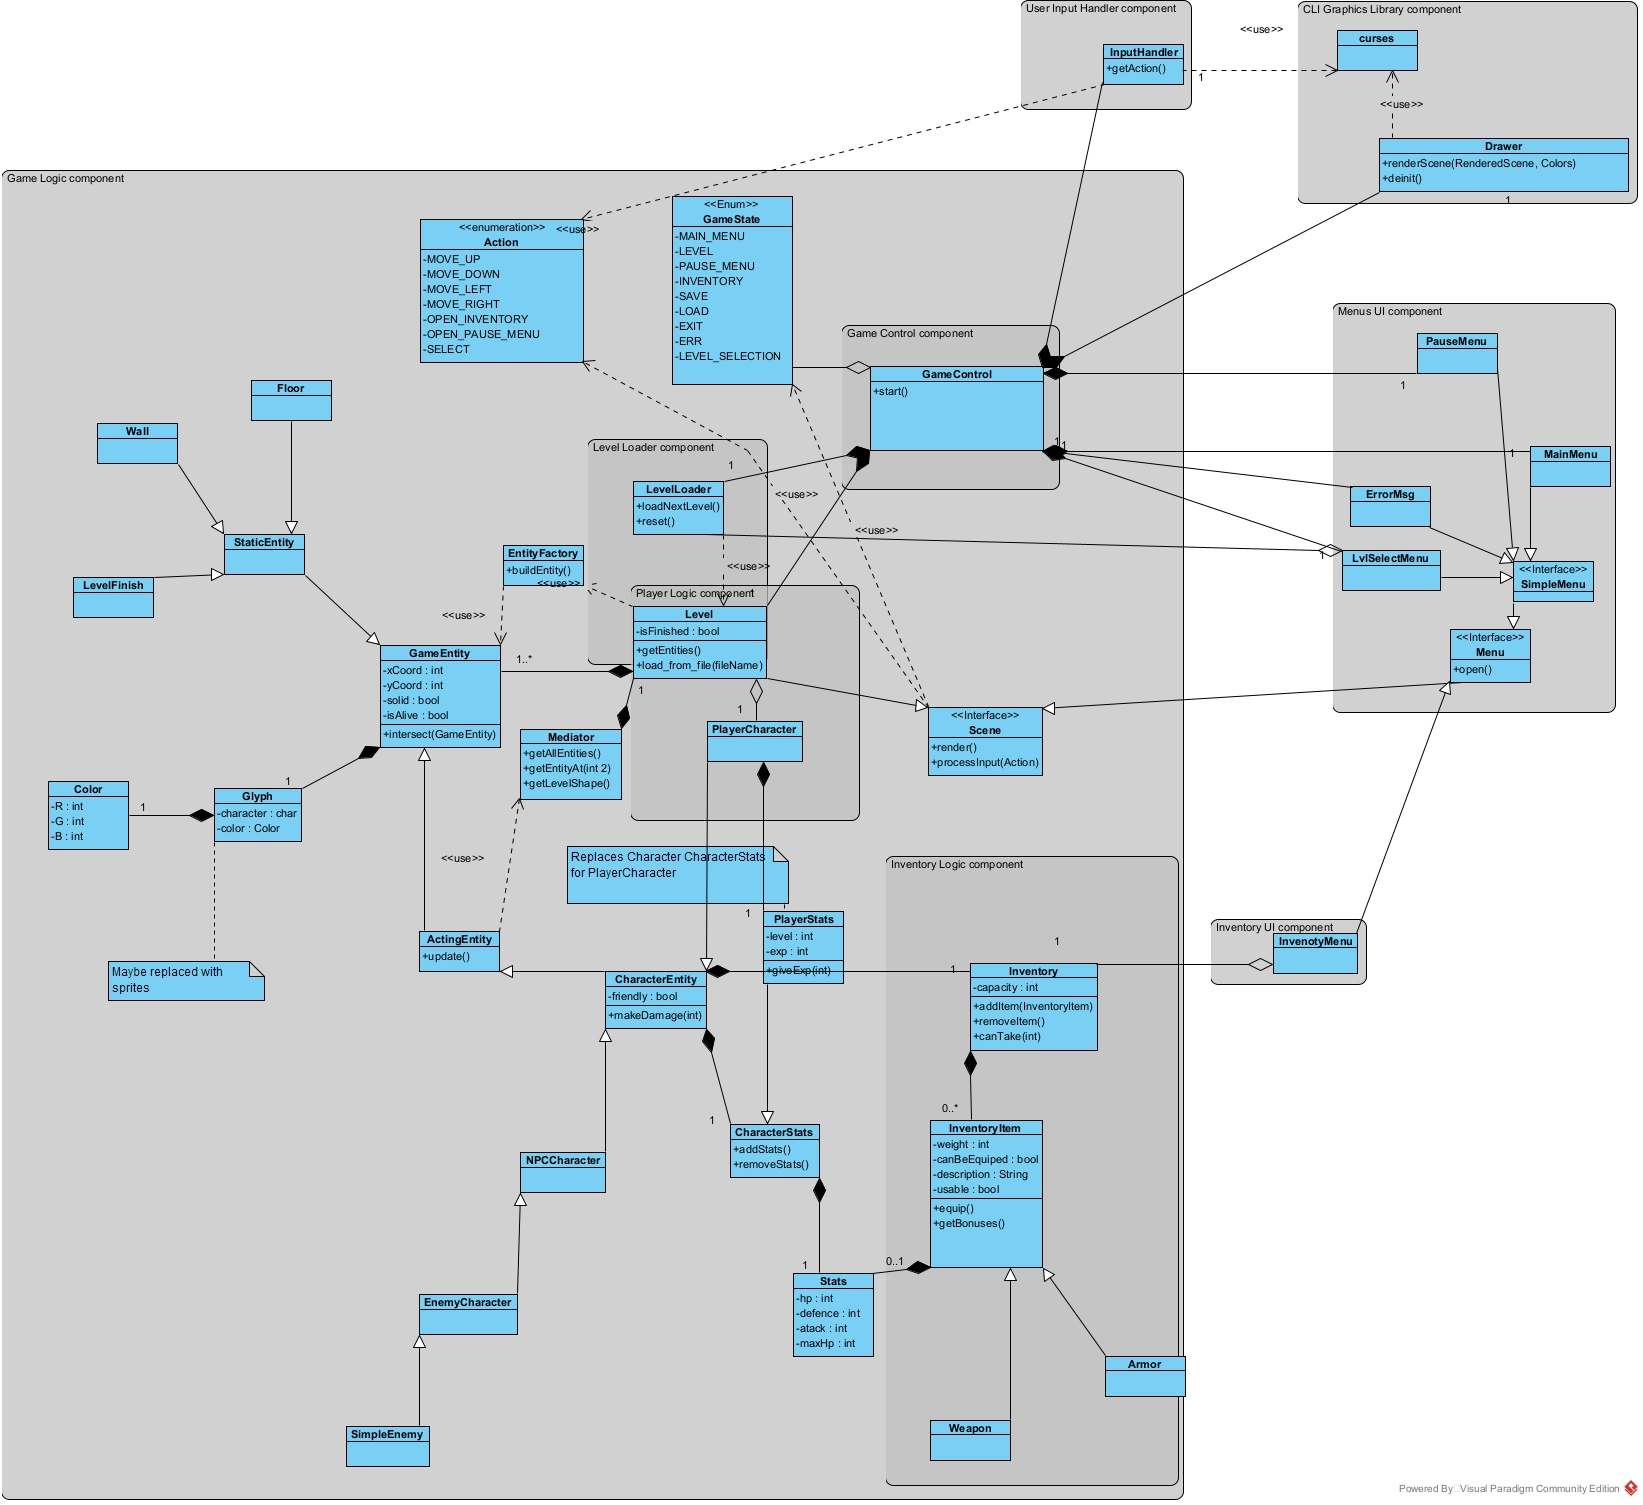
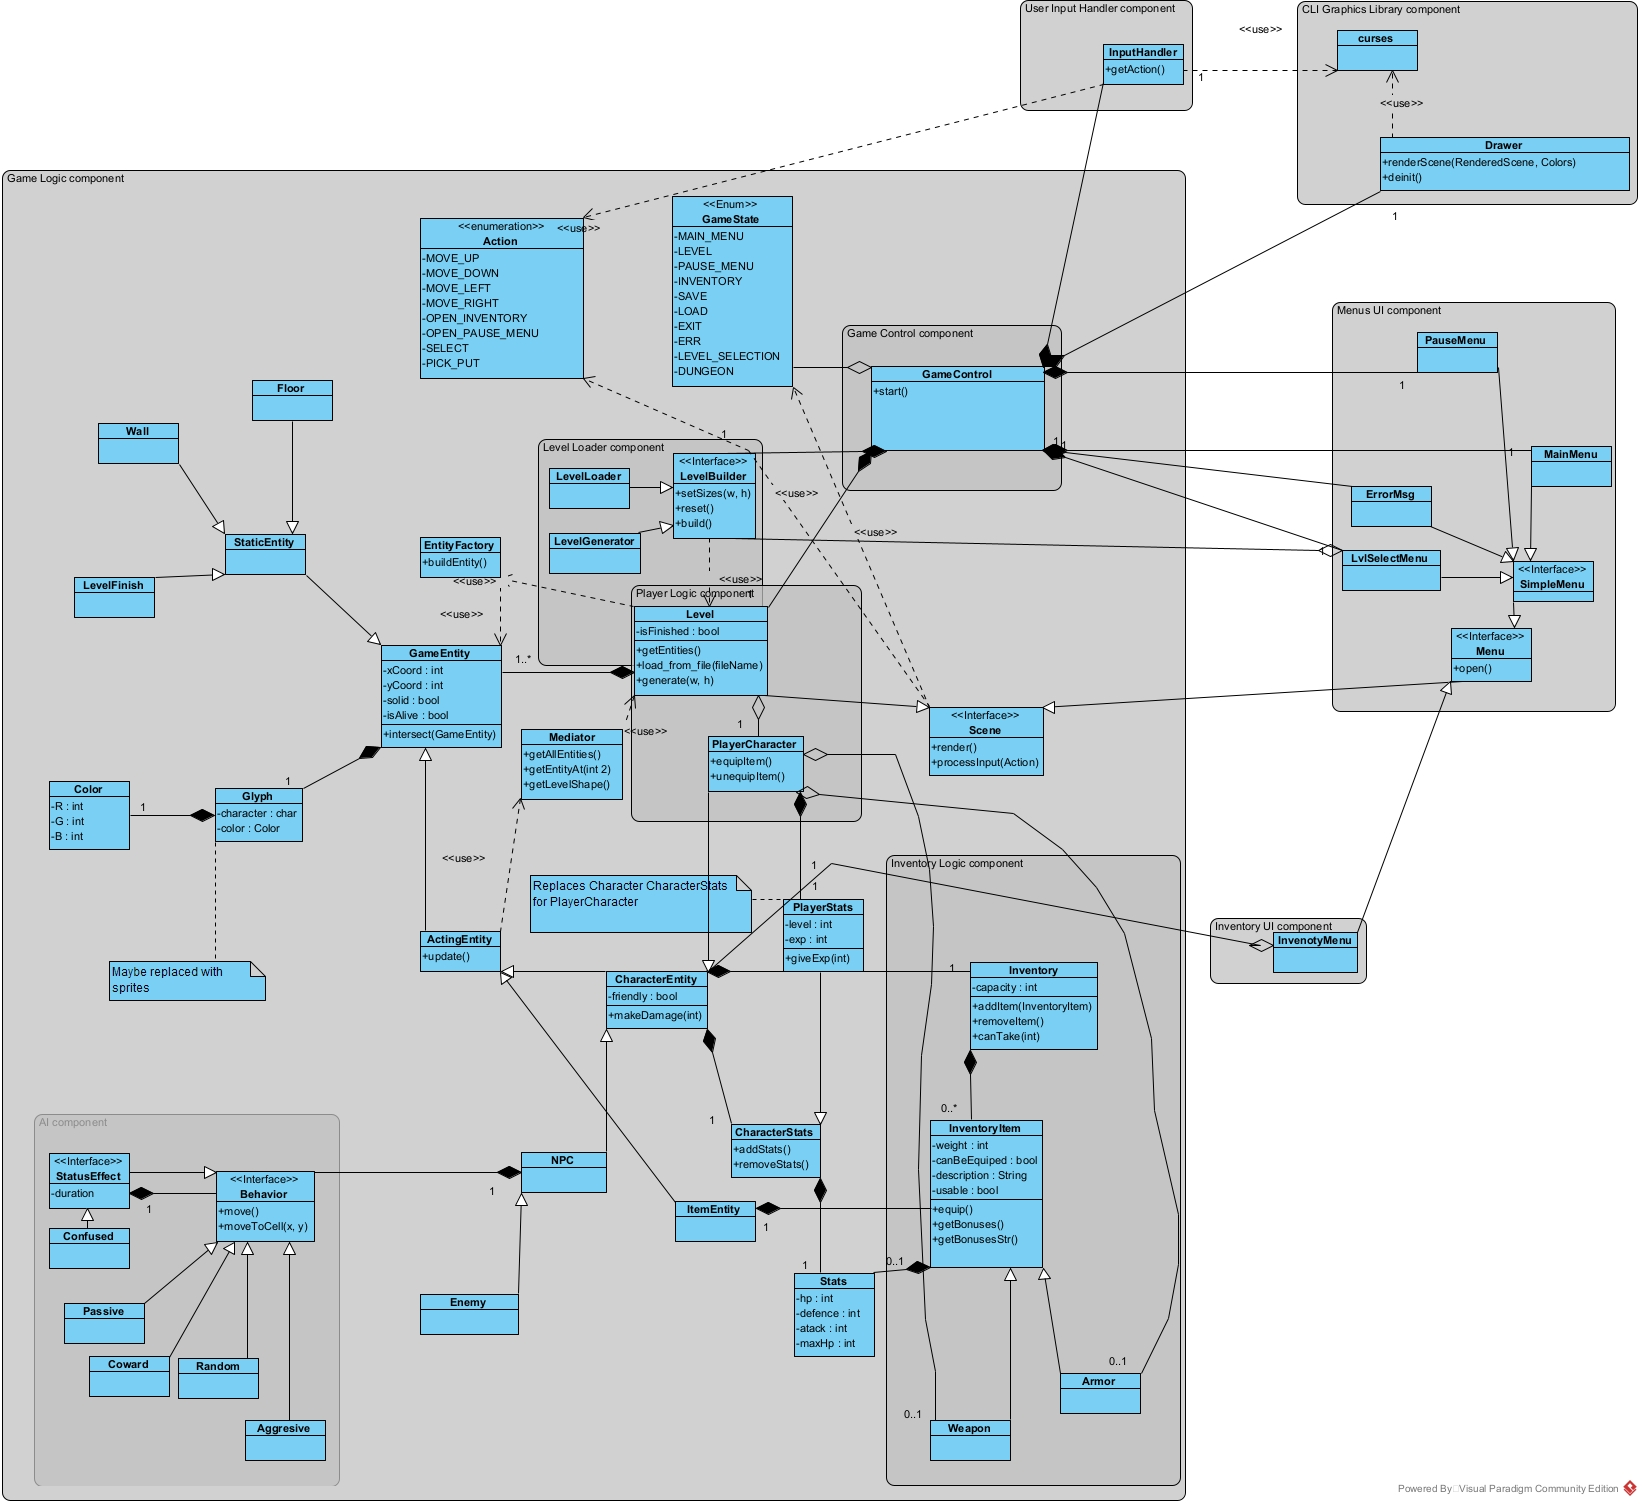
Fix and updates

diff --git a/Roguelike/ARCHITECTURE.md b/Roguelike/ARCHITECTURE.md
@@ -126,15 +126,23 @@ RGB представление цвета.
 Базовый класс предметов в инвенторе. Имеет вес `weight`, флаг о возможности экипировки на персонажа `canBeEquiped`, 
 описание предмета `description`, флаг о возможности использования `usable` и характеристики для предмета `Stats`, 
 которые применяются к персонажу, если он надевает/использует предмет. Методы `equip` и `use` отвечают за использование предмета.
-Метод `getBonuses` возвращает статистики, которые дает предмет. 
+Метод `getBonuses` возвращает статистики, которые дает предмет. `getBonusesStr` генерирует текстовое представление бонусов. 
 
-Далее можно строить иерархию предметов, например оружие и броня, как показано на схеме   
+Далее строится иерархия предметов, например оружие и броня, как показано на схеме (`Weapon`, `Armor`)   
 
 ### Inventory
 Инвентарь персонажа. Хранит в себе объекты `InventoryItems`. Имеет поле `capacity`, ограничивающее переносимый вес. 
 Методы `add/removeItem` отвечают за добавление и удаление предметов из инвенторя, метод `canTake` говорит можно ли взять
 переданный в аргументе вес. 
 
+### Behavior
+Абстрактный класс, отвечающий за поведение NPC. Его наследниками сейчас являются агрессивное, трусливое, пассивное и случайные поведения.
+
+### StatusEffect
+Абстрактный класс, наследник `Behavior`. Отвечает за модификацию поведения и представляет из себя паттерн декоратор. 
+Параметризуется оборачиваемым поведением и длительностью действия. Сейчас единственный наследник -- `Confused`, заставляющий
+сущность двигаться случайно.
+ 
 ### GameEntity
 Родительский класс всех игровых сущностей (персонажей, элементов карты, предметов). Содержит поля координат `x/yCoord`,
 символ для отрисовки `glyph` (можно заменить какими-то спрайтами при желании),
@@ -150,14 +158,26 @@ RGB представление цвета.
 Наследник `GameEntity`, является родительским классом для сущностей, которые могу действовать. Имеют метод `update`, 
 который срабатывает на каждом обновлении кадра. Обращается к объекту `Mediator` для взаимодействия с объектом уровня `Level`.
 
+### ItemEntity
+Наследник `ActingEntity`. Класс для представления сущности выброшенного предмета. Содержит в себе ссылку на соответсвуюший
+`InventoryItem`.
+
 ### CharacterEntity
 Наследник `ActingEntity`, представляет из себя персонажей игры. Содержит статистики персонажа `CharacterStats`, 
 его инвентарь `Inventory` и флаг является ли персонаж врагом. Метод `makeDamage` обрабатывает поступающий урон. 
 На схеме показан пример как от данного класса можно насследовать врагов
 
 ### PlayerCharacter
-Наследник `CharacterEntity`, представляющий из себя персонажа игрока. На данный момент отличее лишь в замене `CharacterStats` 
-на `PlayerStats`.
+Наследник `CharacterEntity`, представляющий из себя персонажа игрока. Отличается в замене `CharacterStats` 
+на `PlayerStats`.  Может снимать и надевать предметы за что отвечают методы `euipItem`, `unequipItem`. 
+Содержит в себе ссылки на экипированные предметы (сейчас оружие и броня).
+
+### NPC
+Наследник `CharacterEntity`. Базовый класс неигровых персонажей
+
+### Enemy
+Наследник `NPC`. Базовый класс для врагов. Они могут атаковать игрока и быть атакованы им. Далее от него наследуются уже 
+конкретные враги.
 
 ### EntityFactory
 Набор методов для создания нужных сущностей.
@@ -173,7 +193,8 @@ RGB представление цвета.
 Наследник `Menu` Интерфейс для  простых меню с навигацией вверх/вниз.
 
 ### MainMenu
-Наследник `SimpleMenu`. Главное меню игры с возможносятми начала новой игры, загрузки, выбора уровня и выхода.
+Наследник `SimpleMenu`. Главное меню игры с возможносятми начала новой игры, загрузки, выбора уровня, режим данжа 
+(бесконечная случайная генерация) и выхода.
 
 ### PauseMenu
 Наследник `SimpleMenu`. Меню паузы. Можно продолжить игру, сохранить ее или выйти в главное меню.
@@ -181,13 +202,15 @@ RGB представление цвета.
 ### LvlSelectMenu
 Наследник `SimpleMenu`. Меню выбора уровня с которого начать игру.
 
+### InventoryMenu
+Меню инвенторя. Можно использовать предметы и выбрасывать их. 
+
 ### Level
 Объект для представления уровня, наследник `Scene`. Хранит в себе список сущностей `GameEntity`. 
 Метод `update` вызывает у всех активных сущностей `update`. 
 Отдельно хранит ссылку на персонажа игрока. Флаг `isFinished` говорит о завершенности уровня.
 
-Сейчас все уровни грузятся из файла определенного формата, при необходимости можно заменить на случайную генерацию, но так
-проще тестировать нововведения (можно располагать их на определенном уровне и грузить именно его).
+Уровень может либо грузится из файла определенного формата, либо генерироваться случайно.
 
 Формат файла уровня таков: сначала идут его размеры, затем задается статическое поле (пол, стены), затем 
 перечисляются специальные сущности с координатами (враги, игрок и пр.).
@@ -195,8 +218,14 @@ RGB представление цвета.
 Уровень завершается, когда игрок доходит до специальной сущности (можно ее например делать неактивной, пока не выполнены 
 какие-то условия).
 
+### LevelBuilder
+Интрефейс отвечающий за строительство уровней (паттерн строитель)
+
 ### LevelLoader
-Умеет грузить следующий уровень по запросу.
+Наследник `LevelBuilder`. Умеет грузить следующий уровень из файла по запросу.
+
+### LevelGenerator
+Наследник `LevelGenerator`. Случайно генерирует уровни.
 
 ### Mediator
 Посредник, повзоляющий действующим сущностям `ActingEntity` получать информацию о другиъ сущностях, которые находятся на уровне.
@@ -236,6 +265,13 @@ RGB представление цвета.
 ![Схема последовательности](images/sequence.jpg)
 Пример последовательности одной итерации игры, когда на пользователь не совершил действие, переводящее игру из состояния 
 Level в другое и не приведшее к завершению уровня. 
+
+Контроллер ждет от InputHandler действие, которое совершит игрок. Handler считывает нажатую клавишу и возвращает 
+соответсвующее ей действие. Далее это действие передается на обработку в уровень. Уровень обрабатывает действие 
+(в рассматриваемой ситуации это например перемещение или взятие предмета). Затем уровень обращается ко всем ActingEntity
+на уровне и зовет у них функцию отвечающую за их действия. После, уровень возвращает новое состояние, в данном случае это 
+снова состояние уровня. Далее контроллер просит у уровня его представление, которое можно отрисовать (символы + их цвета) 
+и передает это в Drawer, который уже отрисовывает состояние уровня пользователю. Далее все эти действия повторяются.
 
 ## Выбор графической библиотеки
 Была выбрана библиотека `curses` из-за ее простоты в ипользовании, кроссплатформенности и наложении минимальных ограничений. 
